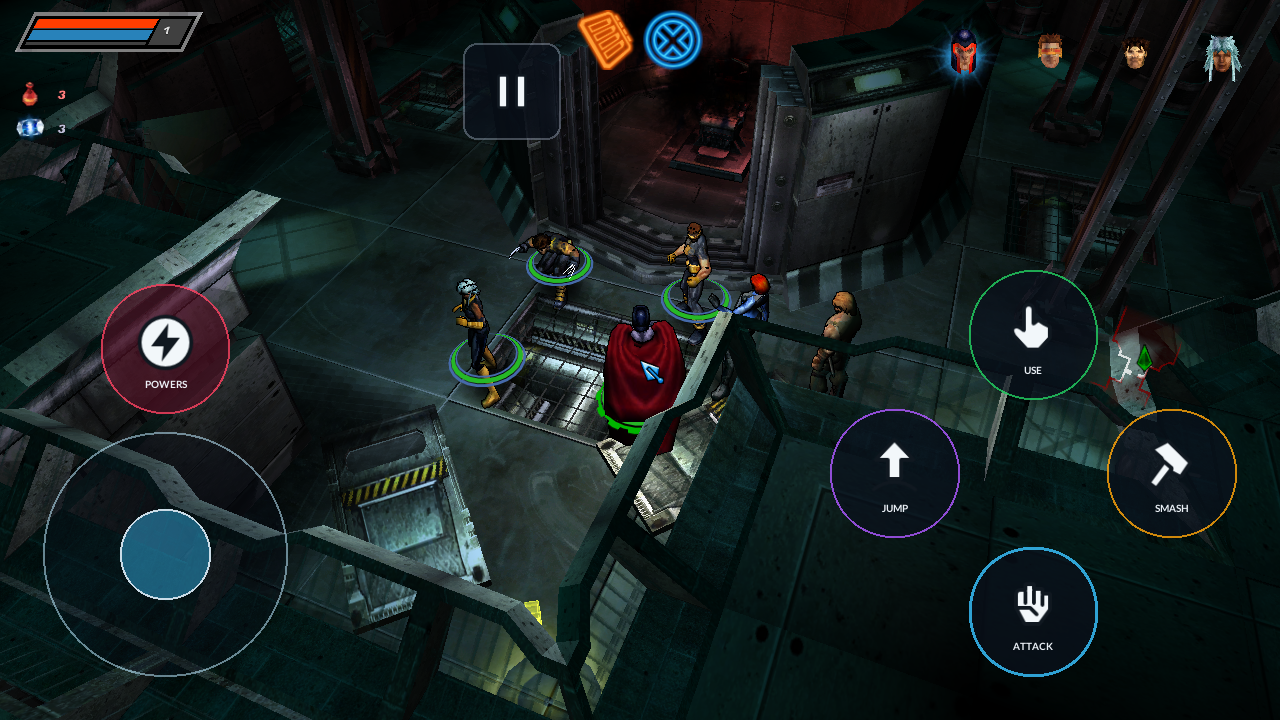
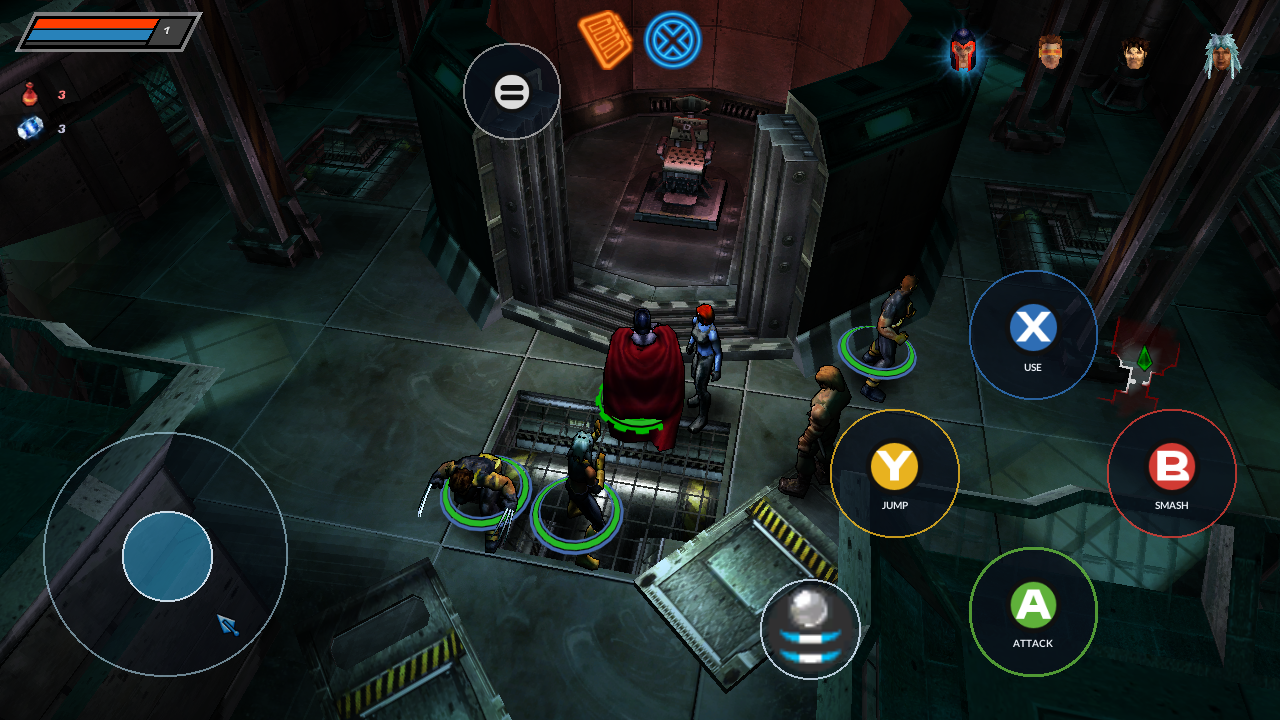
docs: recapture the touch controls as they ship now
The 2026-09-08 capture predated the prompt-glyph buttons and per-power
buttons. The new one is the shipping renderer's final frame from a
windowed run in a private Xvfb display, with touch controls forced on.

Claude-Session: https://claude.ai/code/session_01D7aWgD8yGaFM2XpanR1nsa

diff --git a/docs/touch-play.md b/docs/touch-play.md
@@ -253,17 +253,18 @@ divides by a window size learned somewhere else taps a fraction of the wrong
 surface: that is how a tap aimed at `Back` in a 1280x720 window went off the
 bottom of it.
 
-### Native presentation observation, 2026-09-08
+### Native presentation observation, 2026-09-25
 
-The [actual RmlUi/game capture](screenshots/touch-controls.png) shows the shared
-SVGs in the shipping Vulkan renderer at 1280×720, with an isolated profile forcing
-`input.touch_controls=2`, Xvfb, and SDL dummy audio. The tutorial cutscene ended
-through the normal Escape cancellation route (one request, one completion,
-controls released); the overlay then appeared during character control. Pause
-leaves the retail center notifications clear, and the vitals, potions, and party
-portraits remain visible. The live JIT report counted 383,048,017 block entries,
-94,546 translations, and zero refusals in 94,546 attempts. This is native UI
-presentation evidence, not Android touchscreen or performance qualification.
+The [actual RmlUi/game capture](screenshots/touch-controls.png) is the shipping
+renderer's final frame at 1280×720 (the control channel's `/screenshot`),
+from a windowed run in a private Xvfb display with an isolated profile forcing
+`input.touch_controls=2` and SDL dummy audio. The opening conversation's
+last line was continued by a tap on it. In control, the overlay shows the move
+stick, the A/B/X/Y actions in the game's prompt glyphs inside their own
+circles with their action names, Start, and the power button with the game's own icon for the hero's power. The vitals,
+potions and party portraits stay clear. This is native UI presentation
+evidence, not Android touchscreen or performance qualification. A headless
+`--no-window` run draws no overlay, so its captures cannot stand in for this.
 
 ## Driving it without a touchscreen
 

diff --git a/docs/project-state.md b/docs/project-state.md
@@ -841,12 +841,10 @@ Evidence: `touch_source`, `touch_controls`, `touch_layout` and
 device and no window. The CMake sources list builds all four touch owners
 unconditionally into `x2native`, outside the `if(ANDROID)` branches.
 The two-thumb layout was inspected in the actual 1280x720 RmlUi/Vulkan game
-presentation; `docs/screenshots/touch-controls.png` records the 2026-09-08
-rendering, before the actions took the game's prompt glyphs and the held
-Powers modifier gave way to per-power buttons. The 2026-09-24 observation in
-`docs/touch-play.md#power-buttons` covers the current one: A/B/X/Y and Start
-glyphs in their own circles, and a power button drawn with the game's icon for
-each power the hero has, whose hold raised the retail RT ring. Pause leaves the
+presentation; `docs/screenshots/touch-controls.png` records the 2026-09-25
+rendering: A/B/X/Y and Start glyphs in their own circles, and a power button
+drawn with the game's icon for the hero's power; the 2026-09-24 observation in
+`docs/touch-play.md#power-buttons` saw its hold raise the retail RT ring. Pause leaves the
 retail center notification icons unobscured. This verifies presentation, not
 physical touchscreen ergonomics or Android performance.
 
